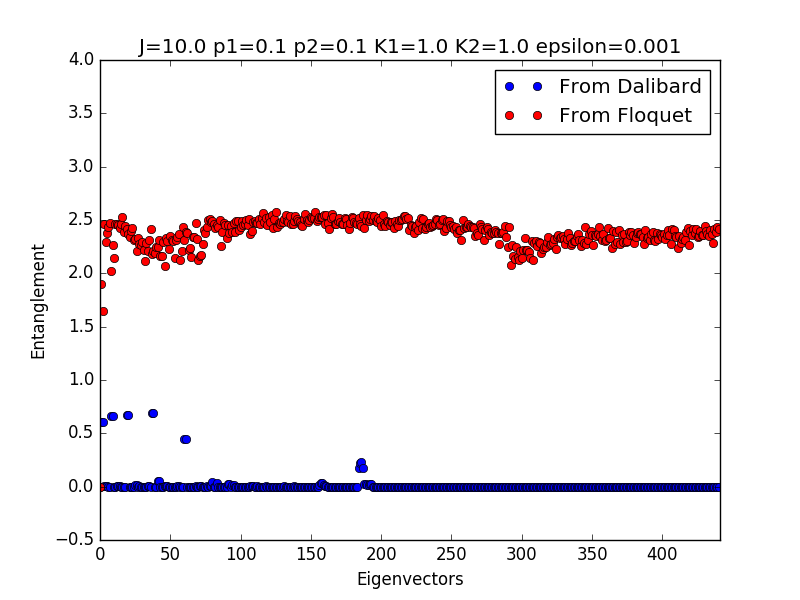
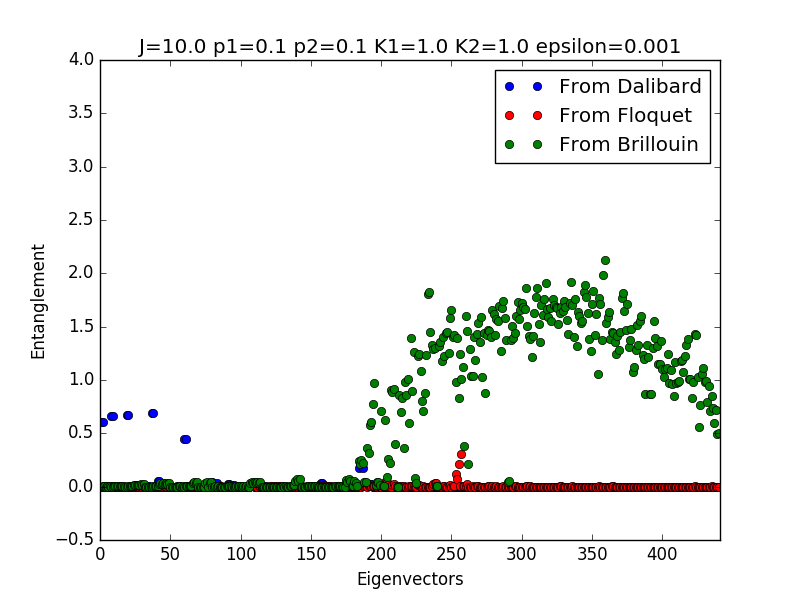
Added files for Brillouin Wigner Method, and also included corresponding entaglement calculation in DOP_KickedRotor

diff --git a/DOP_KickedRotor.py b/DOP_KickedRotor.py
@@ -1,5 +1,6 @@
 from DOP_Dalibard import *
 from DOP_Floquet import *
+from DOP_Brillouin import *
 import matplotlib.pyplot as plt
 import numpy as np
 import cmath
@@ -10,23 +11,23 @@ p1=1/J
 p2=1/J
 K1=1.0
 K2=1.0
-#epsilon=0.001
+T=1.0
 
-for epsilon in [10.0,100.0,100.0]:#[0.001,0.01,0.1,1.0,10.0]:
+for epsilon in [0.0001,0.001,0.01,0.1,1.0]:#,2.0,5.0,10.0,50.0,100.0,500.0,1000.0,10000.0]:
 	N=int(2*J+1)
 	N_sq=int(N*N)
 	
-	#Energy=np.zeros((1,N_sq),dtype=np.complex64)
-	#QuasiEnergy=np.zeros((1,N_sq),dtype=np.complex64)
-	#Eigenvectors1=np.zeros((N_sq,N_sq),dtype=np.complex64)
-	#Eigenvectors2=np.zeros((N_sq,N_sq),dtype=np.complex64)
+
 	Energy,Eigenvectors1=Dalibard(J,p1,p2,K1,K2,epsilon)
 	QuasiEnergy,Eigenvectors2=Floquet(J,p1,p2,K1,K2,epsilon)
+	Energy_B, Eigenvectors_B = Brillouin(J,p1,p2,K1,K2,epsilon,T)
 	QuasiEnergy=-im*np.log(QuasiEnergy) + np.pi
 	Energy=Energy%(2*np.pi)
 	
 	Sv_array1=[]
 	Sv_array2=[]		#To store the entanglement values for different eigenstates
+	Sv_array3=[]
+
 	#To calculate the reduced density matrix of the system (C_Dagger * C)
 	for vector in Eigenvectors1:
 		C=np.zeros((N,N),dtype=np.complex64)
@@ -59,6 +60,22 @@ for epsilon in [10.0,100.0,100.0]:#[0.001,0.01,0.1,1.0,10.0]:
 			if x > 0:
 				Sv=Sv-x*np.log(x)
 		Sv_array2.append(Sv)
+
+	for vector in Eigenvectors_B:
+		C=np.zeros((N,N),dtype=np.complex64)
+		dummy_index=0
+		for i in range(N_sq):
+			C[dummy_index][i%N]=vector[i]
+			if i%N == N-1:
+				dummy_index=dummy_index+1
+		C=np.matrix(C)
+		DensityMatrix3 = C*Dagger(C)
+		Lambda1=eigvalsh(DensityMatrix3)
+		Sv=0.0
+		for x in Lambda1:
+			if x > 0:
+				Sv=Sv-x*np.log(x)
+		Sv_array3.append(Sv)
 	
 	plt.axis([0, N_sq, -0.5, 4])
 	plt.title('J=%s p1=%s p2=%s K1=%s K2=%s epsilon=%s' %(J,p1,p2,K1,K2,epsilon))
@@ -66,10 +83,17 @@ for epsilon in [10.0,100.0,100.0]:#[0.001,0.01,0.1,1.0,10.0]:
 	plt.ylabel('Entanglement')
 	plt.plot(Sv_array1,'bo',label='From Dalibard')
 	plt.plot(Sv_array2,'ro',label='From Floquet')
+	plt.plot(Sv_array3,'go',label='From Brillouin')
 	plt.legend()
-	#plt.savefig('epsilon_%s.png'%epsilon)
-	#plt.close()
-	plt.show()
+	plt.savefig('epsilon_%s.png'%epsilon)
+	plt.close()
+	
+	print 'epsilon %s done' %epsilon
+
+
+
+
+	#plt.show()
 
 	#QE = np.real(QuasiEnergy)
 	#plt.figure()

diff --git a/DOP_Brillouin.py b/DOP_Brillouin.py
@@ -1,0 +1,28 @@
+#######################################################################################################################################
+########This function calculates the entanglement of the system specified by the variables declared below #############################
+#######################################################################################################################################
+
+import numpy as np
+from numpy.linalg import *
+import cmath
+from sympy.physics.quantum import Dagger
+from DOP_Heff_Brillouin import *
+import matplotlib.pyplot as plt
+
+def Brillouin(J,p1,p2,K1,K2,epsilon,T):
+	im = cmath.sqrt(-1)
+
+#	J=10.0			#Eigenvalue of J^2 operator, enter value as a float
+#	p1=1.0			#Moment of Inertia of first top
+#	p2=1.0			#Moment of Inertia of first top
+#	K1=1.0			#Spring constant of Top 1
+#	K2=1.0			#Spring constant of Top 2
+#	epsilon=1.0		#Coupling strength of the two tops
+
+	Hamilt = Heff_Brillouin(J,p1,p2,K1,K2,epsilon,T)
+	eigenvalues,eigenvectors=eigh(Hamilt)	#Calculates eigenvectors and eigenvalues of Hamiltonian using routines in numpy.linalg
+	eigenvectors=np.array(eigenvectors)
+	eigenvectors=np.transpose(np.array(eigenvectors))
+	N=int(2*J+1)
+	N_sq=N*N
+	return eigenvalues, eigenvectors

diff --git a/DOP_Heff_Brillouin.py b/DOP_Heff_Brillouin.py
@@ -1,0 +1,20 @@
+###################################################################################################################################################
+########This function calculates the Effective Hamiltonian of the Coupled Kicked Rotor (Dirac Detla) Potential function using Brillouin Wigner
+###################################################################################################################################################
+
+import numpy as np
+from numpy.linalg import *
+import cmath
+from sympy.physics.quantum import Dagger
+from DOP_Potential import *
+from DOP_H0 import *
+
+im = cmath.sqrt(-1)
+
+def Heff_Brillouin(J,p1,p2,K1,K2,epsilon,T):
+
+	Omega=2*np.pi
+	H0=KineticEnergy(p1,p2,J)
+	V=Potential(K1,K2,J,epsilon)
+	Hamilt = H0 + V/T + 1/12.0*(V*H0*V-V**3/T)
+	return Hamilt
